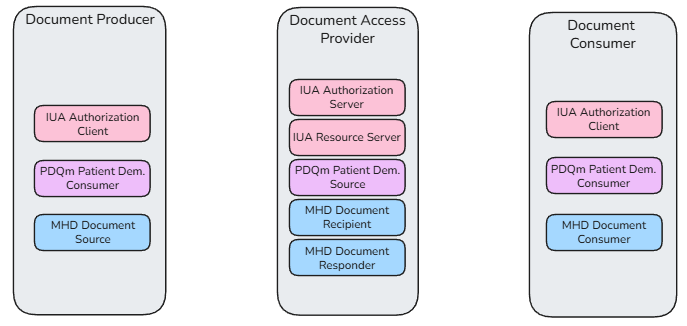
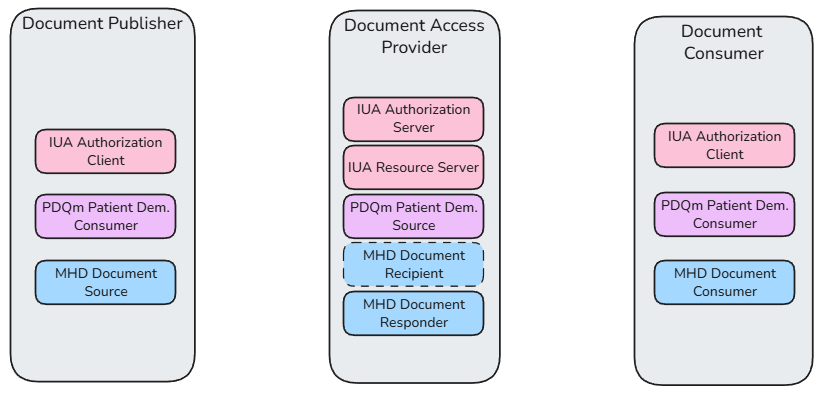
Fix DocumentReference references, update contributors and diagrams
- Fix FSH reference syntax (use .reference for subject, author, custodian)
- Update Josh Priebe affiliation to Epic/HL7 EU
- Reorder contributors list
- Update docExchange_2.png diagram
- Add composite_actors.png

diff --git a/input/pagecontent/contributors.md b/input/pagecontent/contributors.md
@@ -5,11 +5,11 @@ European countries, projects, initiatives SDO's and companies.
 
 |Role                    | Name                | Affiliation    |
 |------------------------|---------------------|----------------|
-| Project co-chair IHEeu |  Josh Priebe        | Philips/HL7 EU |
+| Project co-chair IHEeu |  Josh Priebe        | Epic/HL7 EU    |
 | Project co-chair HL7eu |  Bas van den Heuvel | Philips/IHE EU |
 | Contributor            |  John Moehrke       | IHE            |
+| Contributor            |  Andreas Klingler   | Siemens/ IHE Europe     |
 | Contributor            |  Vassil Peytchev    | Epic           |
 | Contributor            |  Katie Reynolds     | Epic           |
-| Contributor            |  Kai Heitmann       | HL7 Europe     |
-| Contributor            |  Andreas Klingler   | Siemens/ IHE Europe     |
 | Contributor            |  Giorgio Cangioli   | HL7 Europe     |
+| Contributor            |  Kai Heitmann       | HL7 Europe     |
